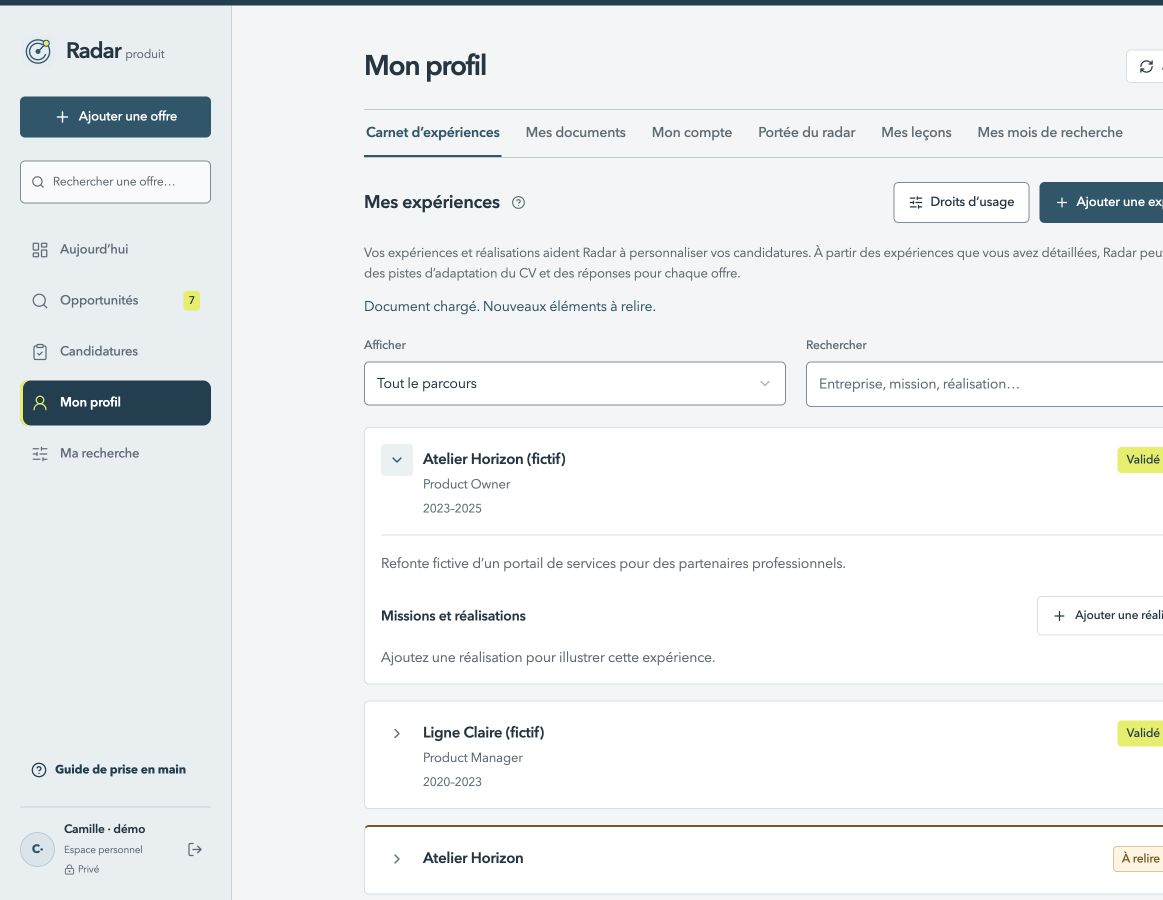
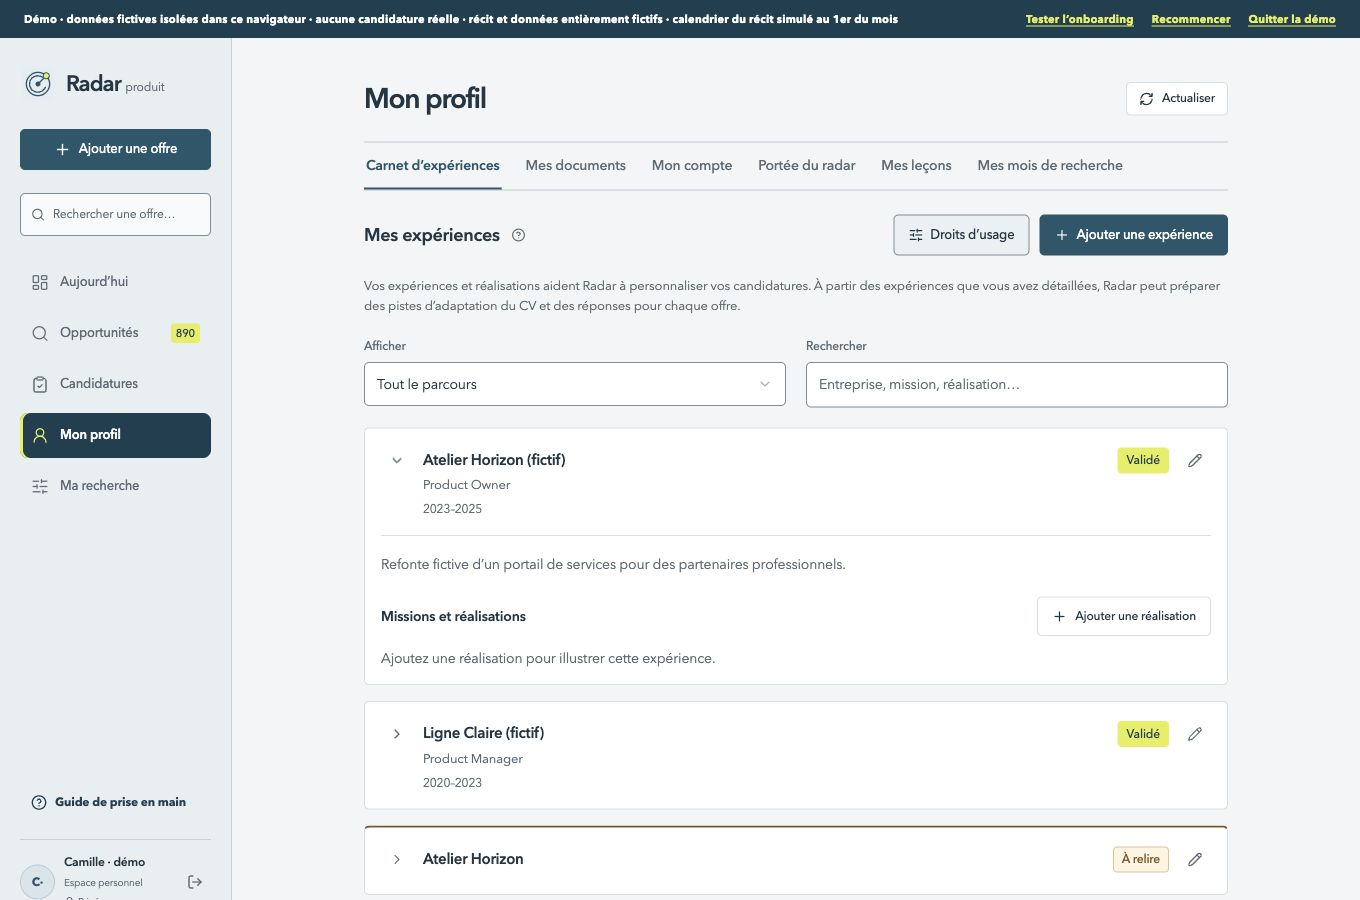
Joindre la recette P1 avant et après et le conflit de droits

diff --git a/docs/p1-termes-compacts/README.md b/docs/p1-termes-compacts/README.md
@@ -1,0 +1,20 @@
+# Recette P1 — termes compacts
+
+Code public `115dbfe`, PR246. Staging privé56 pour la recette,57 pour reprendre les captures avant depuis main, puis58 à60 pour la continuité du focus après conflit et relecture (source finale `74fda411b96568ad7a052cc3eeb597c7ab70e960`). Même compte entièrement fictif, mille offres et cinquante candidatures. Aucune migration ni production.
+
+| Vérification | Résultat |
+| --- | --- |
+| Avant / après | Ma recherche et carnet, ordinateur1360 ×900 et mobile390 ×844. Les premiers cadrages ordinateur tronqués ont été remplacés, sans retouche. |
+| Repos | Domaine intégré aux critères, propositions repliées ; sources remontées. |
+| Cinq propositions | Cinq puces visibles, puis la suivante remplace une puce traitée ; +N autres. Les contrôles des sous-vues cachées ne sont pas comptés comme visibles. |
+| Ignorer / restaurer | Backlog ignoré, absent après rechargement, puis rétabli uniquement par Restaurer. Ligne Termes ignorés fermée par défaut. |
+| Provenance | Passage relu affiché seulement à l’ouverture de l’aide, clavier et toucher. |
+| Carnet | Sous une expérience validée et autorisée, choix de ses termes ou ajout groupé de B2B et Backlog. Réponse privée et critères concordent. |
+| Droits changés | Révocation sur le compte fictif pendant que les anciennes puces restent ouvertes : confirmation refusée, aucun ajout, commande de relecture. Captures ordinateur et mobile ; droits fictifs ensuite restaurés explicitement. |
+| Limite / atomicité | Tests :40 au plus, absence d’ajout partiel si le lot dépasse la limite ou si un droit/version a changé. Choix ignorés conservés face à un ancien formulaire. |
+| Clavier / mobile | Boutons44px, focus visible après retrait, sur Relire les termes après conflit et sur le panneau après reprise, détails et aide accessibles ; aucun débordement. Mouvement réduit du compte conservé. |
+| Contrôles | 387 tests réussis, TypeScript réussi, aucune nouvelle erreur ESLint (35 préexistantes). Console nominale sans erreur. |
+
+Aide visible sans clic : **Ma recherche74 mots**, **carnet39 mots**, identiques sur ordinateur et mobile. Mesure des paragraphes d’explication et d’aide rendus, sur l’ensemble de la page déroulante ; titres, commandes, données métier, noms et extraits du carnet exclus. Les infobulles et détails fermés ne sont pas visibles sans clic. La mention de démonstration est conservée pour que les données fictives soient identifiables.
+
+L’ordre du guide est conservé : P2 remplace la présentation en crans, P8 harmonise les autres textes, P4 centralise la prochaine étape et P7 rend Plus tard durable pour les invitations contextuelles. Le réseau système n’a pas été coupé ; un vrai conflit de droits a été reproduit, et les chemins de panne et d’isolation sont testés.
